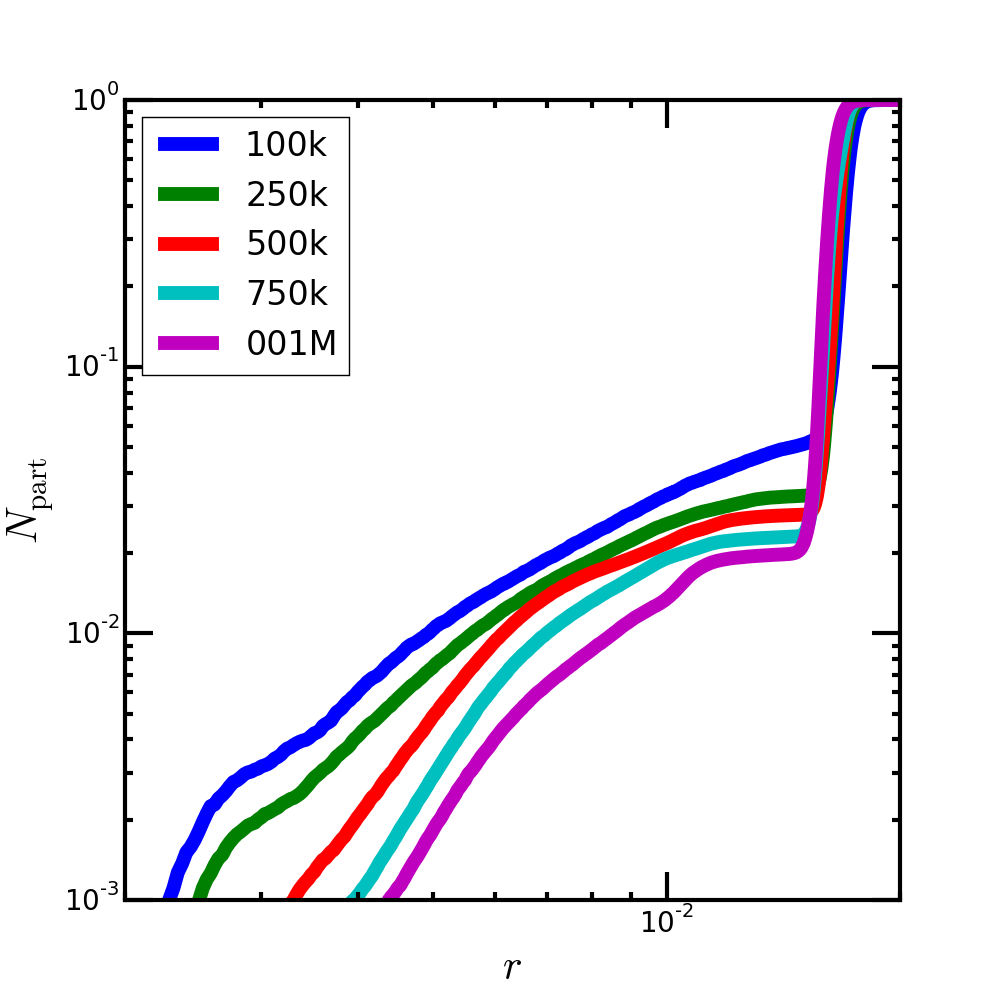
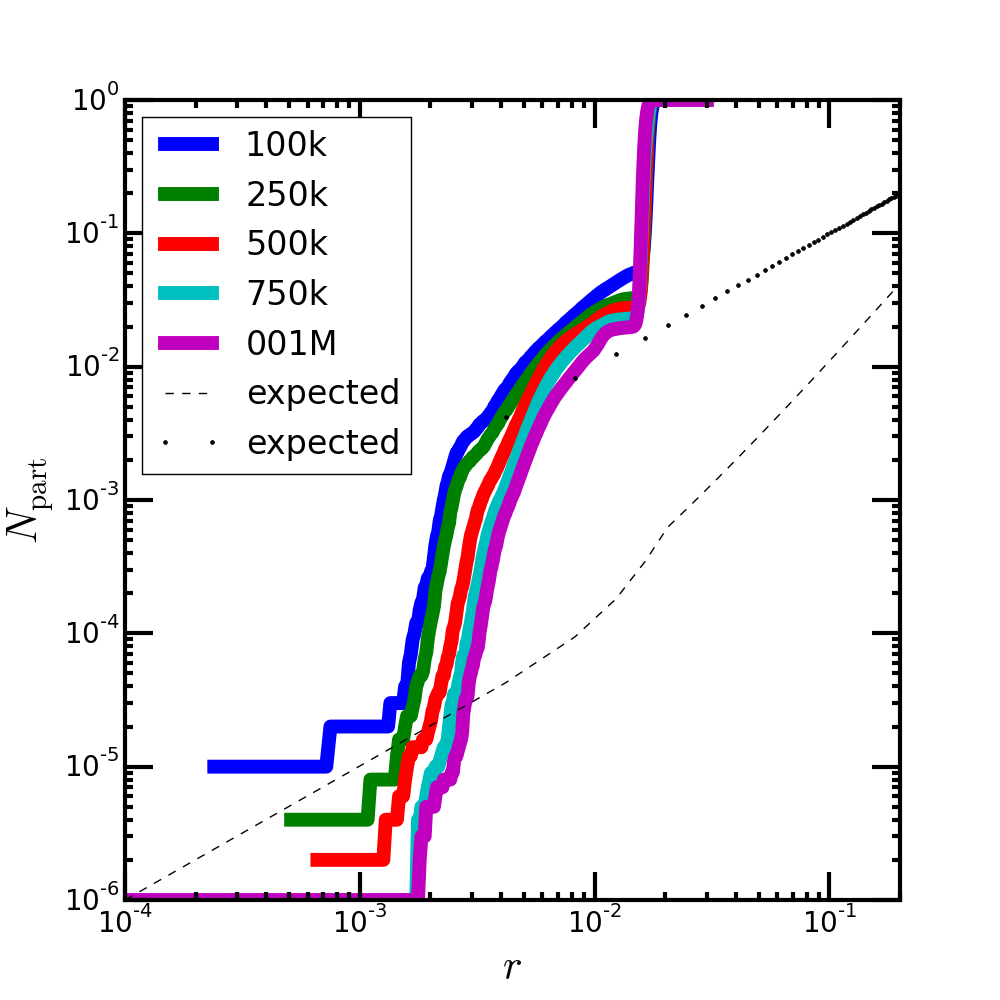
played with M(r) distributions. Added the expected distribution taking into account the Mpot(r). Not good

diff --git a/1-SanityCheck/No_racc/M_inside_r/plot_M_inside_r_evol.py b/1-SanityCheck/No_racc/M_inside_r/plot_M_inside_r_evol.py
@@ -13,19 +13,11 @@ def load_data(filename):
 			all_lines.append(line_data)
 	return all_lines
 
-def M_in(r):
-	Mbh = 1e-2
-	Mcore = 2e-2
-	Mbulge = 1.0
-	rcore = 0.02 
-	rbulge = 1.0
-	if( r < rcore ):
-		return Mbh + Mcore * (r/rcore)**3
-	else:
-		return Mbh + Mbulge * (r/rbulge)
-
-def Jmom(r):
-	return np.sqrt( r * M_in( r ))
+def get_rcirc(radius,nparts):
+	mean_r = 0
+	for r,n in zip(radius,nparts):
+		mean_r += r*n
+	return mean_r
 
 #Set relevant dimensions:
 FigSize = 10
@@ -39,38 +31,34 @@ pl.tick_params(width=BorderWidth, length=FontSize, which='major')
 pl.tick_params(width=BorderWidth, length=0.3*FontSize, which='minor')
 
 
-snap=5
+res='001M'
 #print("#M_bh r_circ")
-for res in ['100k','250k','500k','750k','001M']:
-	datafile = "./res_"+res+"_t"+str(snap)+"00.txt"
+for snap in ['000','010','050','100','200','300','500']:
+	datafile = "./res_"+res+"_t"+snap+".txt"
 	X = np.array(load_data(datafile))
 	M_cumulative = np.array(X[:,1])
-	print('#'+res)
 	for i in range(1,len(M_cumulative)):
 		M_cumulative[i] += M_cumulative[i-1]
-		print(X[i,0], M_cumulative[i])
-	label_this= res#+" particles, $t = "+str(snap)+"$"
+	label_this= snap#+" particles, $t = "+str(snap)+"$"
 	imgplot = pl.loglog(X[:,0], M_cumulative,'-', linewidth = 0.5*FontSize, label = label_this)
+	#imgplot2 = pl.loglog(X[:,0], X[:,1],'--', linewidth = 0.5*FontSize, label = label_this)
+	#print("1e"+str(i-10)+" "+str(get_rcirc(X[:,0],X[:,1])))
 
-#plot expectation: From generalized eq 12:
-#M(<r*) / Mshell ~
-r_fin = np.linspace(1e-4,0.2)
-J_rfin = np.zeros(len(r_fin))
-for i in range(len(r_fin)):
-	J_rfin[i] = Jmom(r_fin[i])
+#plot expectation: From eq 12:
+#M(<r*) / Mshell ~ Mbh r* / rshell^2 / vrot^2
 
-pl.plot(r_fin, J_rfin**2, 'k--', label='expected')
-pl.plot(r_fin, r_fin, 'k.', label='expected')
-#ONLY VALID FOR r << r_core = 0.02
+rad = np.linspace(1e-3,1e-1)
+m_in = 1e-2 * rad / 0.1 / 0.3**2
+pl.plot(rad,m_in,'k--',label='expected slope')
 
 
 pl.legend(loc=2)
 pl.xlabel("$r$",fontsize=1.5*FontSize)
 pl.ylabel("$N_{\\rm part}$",fontsize=1.5*FontSize)
-pl.xlim([1e-4,2e-1])
-pl.ylim([1e-6,1e0])
+pl.xlim([2e-3,1e-1])
+pl.ylim([1e-3,1e0])
 #pl.title("Circularization radius is where the peak is..." )
-figfile = "M_inside_r_all_res.png"
+figfile = "M_inside_r_evol.png"
 pl.savefig(figfile)
 print("Figure saved to "+figfile)
 #pl.show()

diff --git a/1-SanityCheck/Racc_1e-3/M_inside_r/plot_M_inside_r_all_resolutions.py b/1-SanityCheck/Racc_1e-3/M_inside_r/plot_M_inside_r_all_resolutions.py
@@ -77,9 +77,9 @@ for res, color in zip(['100k','250k','500k','750k','001M'],['b-','g-','r-','c-',
 
 pl.legend(loc=2)
 pl.xlabel("$r$",fontsize=1.5*FontSize)
-pl.ylabel("$N_{\\rm part}$",fontsize=1.5*FontSize)
-pl.xlim([2e-3,2e-2])
-pl.ylim([1e-3,1e0])
+pl.ylabel("$N(r)/N_{\\rm part}$",fontsize=1.5*FontSize)
+pl.xlim([1e-4,3e-2])
+pl.ylim([1e-6,1e0])
 #pl.title("Circularization radius is where the peak is..." )
 figfile = "M_inside_r_all_res.png"
 pl.savefig(figfile)
